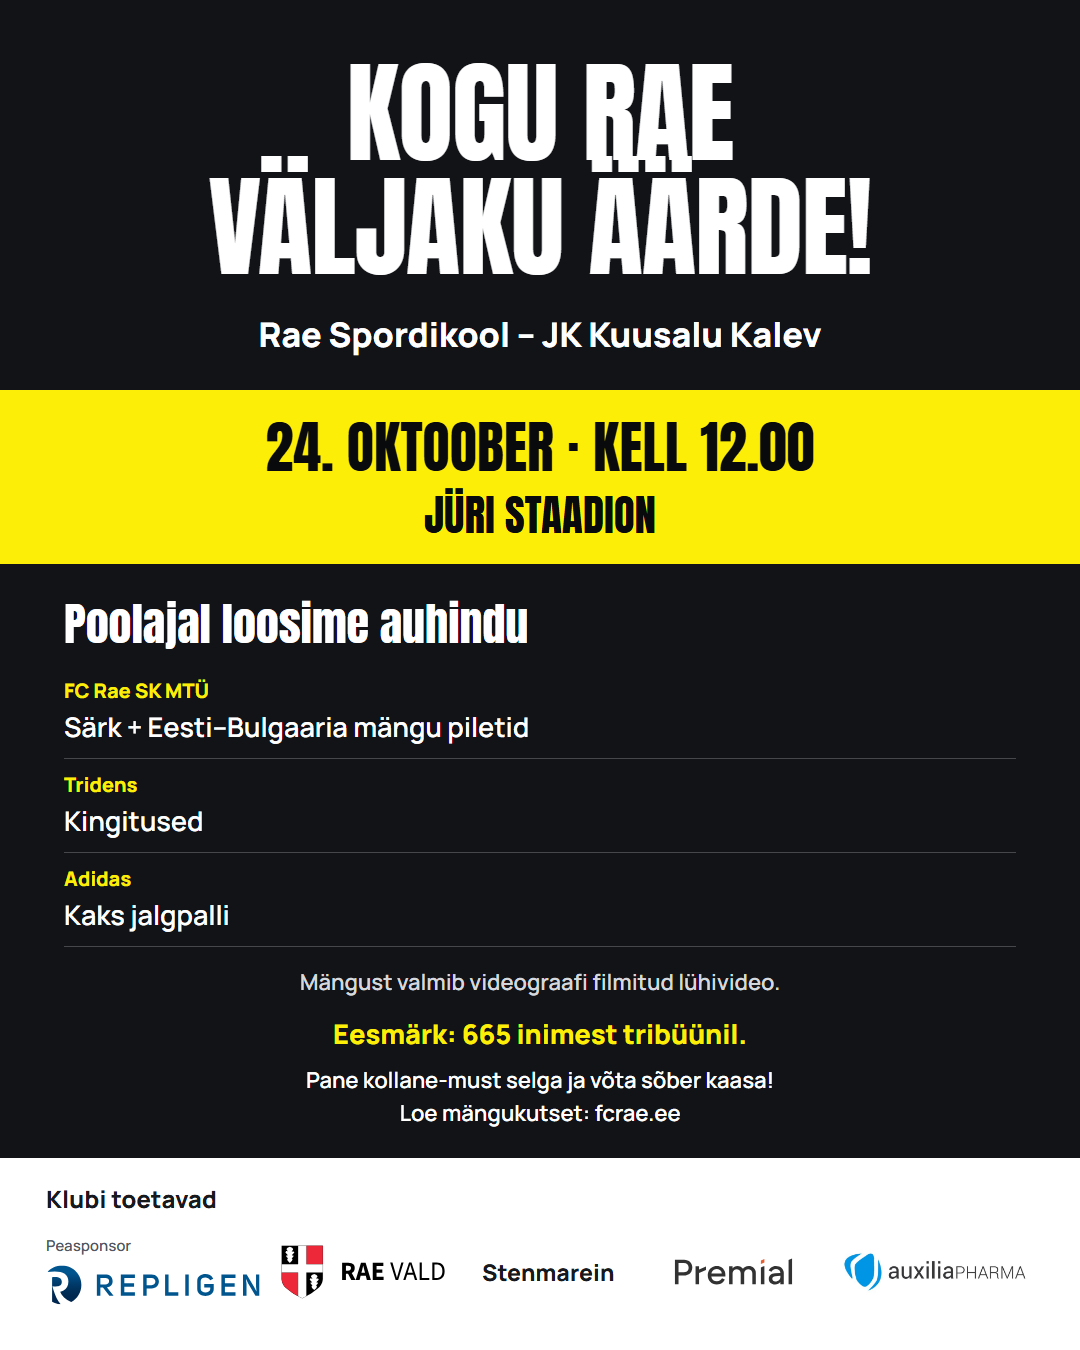
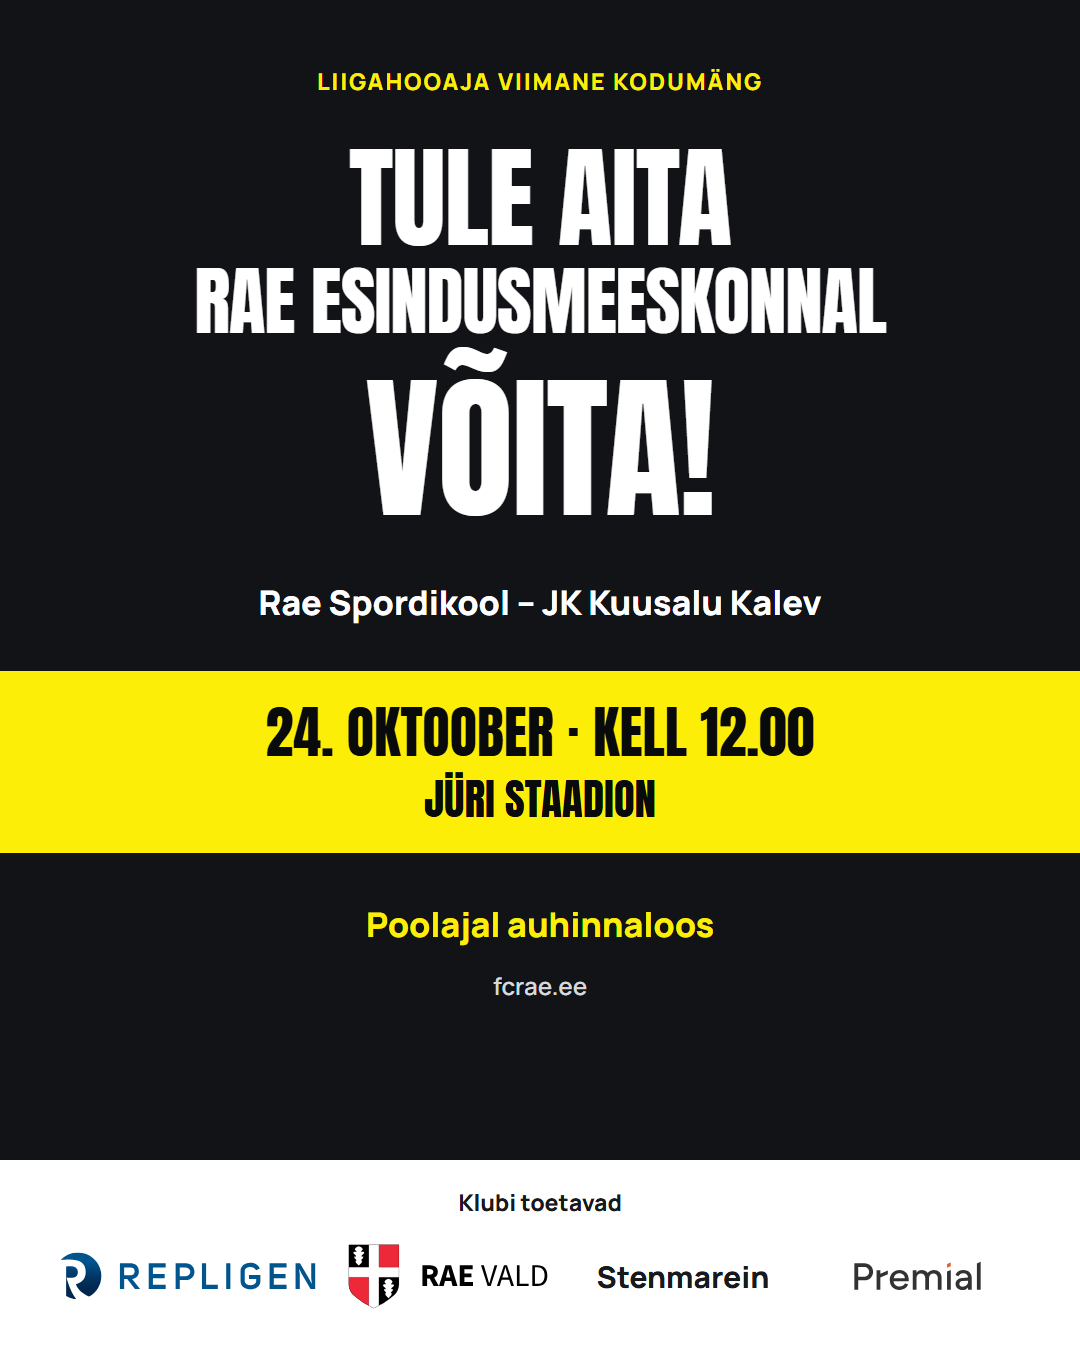
Simplify match posters around invitation to support Rae

diff --git a/uudised/hooaja-viimane-kodumang-2026/index.html b/uudised/hooaja-viimane-kodumang-2026/index.html
@@ -20,7 +20,7 @@
     <meta property="og:title" content="Liigahooaja viimane kodumäng. Kogu Rae väljaku äärde!">
     <meta property="og:description" content="Koht üleminekumängudel on kindel. Tule 24. oktoobril kell 12 Jüri staadionile Rae Spordikoolile kaasa elama. Eesmärk: 665 inimest tribüünil.">
     <meta property="og:url" content="https://fcrae.ee/uudised/hooaja-viimane-kodumang-2026/">
-    <meta property="og:image" content="https://fcrae.ee/assets/hooaja-lopumang-2026.png?v=20261019-loos">
+    <meta property="og:image" content="https://fcrae.ee/assets/hooaja-lopumang-2026.png?v=20261019-kutse">
     <meta property="og:image:width" content="1200">
     <meta property="og:image:height" content="630">
     <meta property="og:image:alt" content="Rae Spordikool – JK Kuusalu Kalev. 24.10 kell 12.00 Jüri staadionil.">
@@ -28,8 +28,8 @@
     <meta name="twitter:card" content="summary_large_image">
     <meta name="twitter:title" content="Liigahooaja viimane kodumäng. Kogu Rae väljaku äärde!">
     <meta name="twitter:description" content="Koht üleminekumängudel on kindel. Tule 24. oktoobril kell 12 Jüri staadionile Rae Spordikoolile kaasa elama. Eesmärk: 665 inimest tribüünil.">
-    <meta name="twitter:image" content="https://fcrae.ee/assets/hooaja-lopumang-2026.png?v=20261019-loos">
-    <script type="application/ld+json">{"@context":"https://schema.org","@type":"NewsArticle","headline":"Liigahooaja viimane kodumäng. Kogu Rae väljaku äärde!","description":"Koht üleminekumängudel on kindel. Tule 24. oktoobril kell 12 Jüri staadionile Rae Spordikoolile kaasa elama. Eesmärk: 665 inimest tribüünil.","datePublished":"2026-10-19","image":["https://fcrae.ee/assets/hooaja-lopumang-2026.png?v=20261019-loos"],"mainEntityOfPage":"https://fcrae.ee/uudised/hooaja-viimane-kodumang-2026/","author":{"@type":"Organization","name":"FC Rae SK MTÜ","url":"https://fcrae.ee/"},"publisher":{"@type":"Organization","name":"FC Rae SK MTÜ","logo":{"@type":"ImageObject","url":"https://fcrae.ee/assets/rae-sk-logo-web.png"}}}</script>
+    <meta name="twitter:image" content="https://fcrae.ee/assets/hooaja-lopumang-2026.png?v=20261019-kutse">
+    <script type="application/ld+json">{"@context":"https://schema.org","@type":"NewsArticle","headline":"Liigahooaja viimane kodumäng. Kogu Rae väljaku äärde!","description":"Koht üleminekumängudel on kindel. Tule 24. oktoobril kell 12 Jüri staadionile Rae Spordikoolile kaasa elama. Eesmärk: 665 inimest tribüünil.","datePublished":"2026-10-19","image":["https://fcrae.ee/assets/hooaja-lopumang-2026.png?v=20261019-kutse"],"mainEntityOfPage":"https://fcrae.ee/uudised/hooaja-viimane-kodumang-2026/","author":{"@type":"Organization","name":"FC Rae SK MTÜ","url":"https://fcrae.ee/"},"publisher":{"@type":"Organization","name":"FC Rae SK MTÜ","logo":{"@type":"ImageObject","url":"https://fcrae.ee/assets/rae-sk-logo-web.png"}}}</script>
   </head>
   <body>
     <header class="site-header">
@@ -57,7 +57,7 @@
           <h1>Liigahooaja viimane kodumäng.<br>Kogu Rae väljaku äärde!</h1>
           <p class="news-lead">Meie siht on tõusta Teise liigasse ja koht üleminekumängudel on juba kindel. Laupäeval lõpetame liigahooaja kodus — tule anna oma kandi meeskonnale oma hääl.</p>
         </header>
-        <figure class="news-cover"><img src="/assets/hooaja-lopumang-2026.png?v=20261019-loos" alt="Hooaja viimane liigamäng: Rae Spordikool – JK Kuusalu Kalev, 24. oktoobril kell 12 Jüri staadionil." width="1200" height="630" fetchpriority="high"></figure>
+        <figure class="news-cover"><img src="/assets/hooaja-lopumang-2026.png?v=20261019-kutse" alt="Hooaja viimane liigamäng: Rae Spordikool – JK Kuusalu Kalev, 24. oktoobril kell 12 Jüri staadionil." width="1200" height="630" fetchpriority="high"></figure>
         <div class="news-body">
           <section class="news-fixture" aria-label="Mängu info">
             <h2>Rae Spordikool – JK Kuusalu Kalev</h2>

diff --git a/meeskond-rae-i.html b/meeskond-rae-i.html
@@ -73,7 +73,7 @@
       <section class="team-news section-light" id="uudised" aria-labelledby="team-news-title">
         <h2 id="team-news-title">Esindusmeeskonna uudised</h2>
         <article class="news-feature">
-          <a class="news-feature-image" href="/uudised/hooaja-viimane-kodumang-2026/" tabindex="-1" aria-hidden="true"><img src="/assets/hooaja-lopumang-2026.png?v=20261019-loos" alt="" width="1200" height="630" loading="lazy"></a>
+          <a class="news-feature-image" href="/uudised/hooaja-viimane-kodumang-2026/" tabindex="-1" aria-hidden="true"><img src="/assets/hooaja-lopumang-2026.png?v=20261019-kutse" alt="" width="1200" height="630" loading="lazy"></a>
           <div>
             <time datetime="2026-10-19">19. oktoober 2026</time>
             <h3><a href="/uudised/hooaja-viimane-kodumang-2026/">Liigahooaja viimane kodumäng. Kogu Rae väljaku äärde!</a></h3>

diff --git a/voistkonnad/rae-i/index.html b/voistkonnad/rae-i/index.html
@@ -73,7 +73,7 @@
       <section class="team-news section-light" id="uudised" aria-labelledby="team-news-title">
         <h2 id="team-news-title">Esindusmeeskonna uudised</h2>
         <article class="news-feature">
-          <a class="news-feature-image" href="/uudised/hooaja-viimane-kodumang-2026/" tabindex="-1" aria-hidden="true"><img src="/assets/hooaja-lopumang-2026.png?v=20261019-loos" alt="" width="1200" height="630" loading="lazy"></a>
+          <a class="news-feature-image" href="/uudised/hooaja-viimane-kodumang-2026/" tabindex="-1" aria-hidden="true"><img src="/assets/hooaja-lopumang-2026.png?v=20261019-kutse" alt="" width="1200" height="630" loading="lazy"></a>
           <div>
             <time datetime="2026-10-19">19. oktoober 2026</time>
             <h3><a href="/uudised/hooaja-viimane-kodumang-2026/">Liigahooaja viimane kodumäng. Kogu Rae väljaku äärde!</a></h3>

diff --git a/README.md b/README.md
@@ -130,4 +130,4 @@ Artikli põhitekstis on eesmärk 665 inimest tribüünil, arvutus ja külastuste
 
 19.10.2026 mängukutse lisainfo: klubi kinnitas 24. oktoobri poolajaloosimise (FC Rae SK MTÜ-lt särk ja Eesti–Bulgaaria mängu piletid, Tridensilt kingitused, Adidaselt kaks jalgpalli) ning mängust valmiva videograafi filmitud lühivideo. Piletite arvu, loosimise osalemiskorda, tasuta sissepääsu ega muid kinnitamata tegevusi ei lisatud. Kasutaja Facebooki viide 1105112148878831 avati ja kontrolliti: see on 18.10 Noova mängu kutse, mida kasutati senise tooni ja kujunduse viitena, mitte tulevase Kuusalu mängu sündmuselingina.
 
-Lai mängukutse `assets/hooaja-lopumang-2026.png` (1200 × 630) sisaldab nüüd poolajaloosimise teadet ja eraldi heledat klubi toetajate riba. Püstine sotsiaalmeediaplakat `assets/hooaja-lopumang-2026-plakat.png` (1080 × 1350) lisab kõik kinnitatud auhinnad ja video info. Repligen jääb peasponsoriks, ülejäänud toetajad võetakse seniselt toetajalehelt: Rae vald, Stenmarein, Premial, Auxilia Pharma. Stenmarein on tekstina, sest kinnitatud logofail puudub; olemasolevaid ettevõtete logosid ei värvitud ümber. Tridens ja Adidas on auhindade andjad eraldi loosimisosas, mitte automaatselt klubi pikaajaliste sponsorite seas. Klubi põhilogo kutsegraafikasse tagasi ei lisatud.
+Lai mängukutse `assets/hooaja-lopumang-2026.png` (1200 × 630) ja püstine sotsiaalmeediaplakat `assets/hooaja-lopumang-2026-plakat.png` (1080 × 1350) on lihtsustatud kutsega „Tule aita Rae esindusmeeskonnal võita!”. Mõlemal on mängupaar, aeg, koht ja lühike poolajaloosimise teade. Publikueesmärk, videoinfo ja auhindade üksikasjad jäävad artiklisse. Kasutaja soovil ei ole plakatil Auxilia Pharma logo ega peasponsori nimetust; klubi toetajate ribas on Repligen, Rae vald, Stenmarein ja Premial. Stenmarein on tekstina, sest kinnitatud logofail puudub; olemasolevaid ettevõtete logosid ei värvitud ümber. Klubi põhilogo kutsegraafikasse tagasi ei lisatud. Artikli ja mõlema meeskonnalehe pildiaadressi versioon on `20261019-kutse`.
